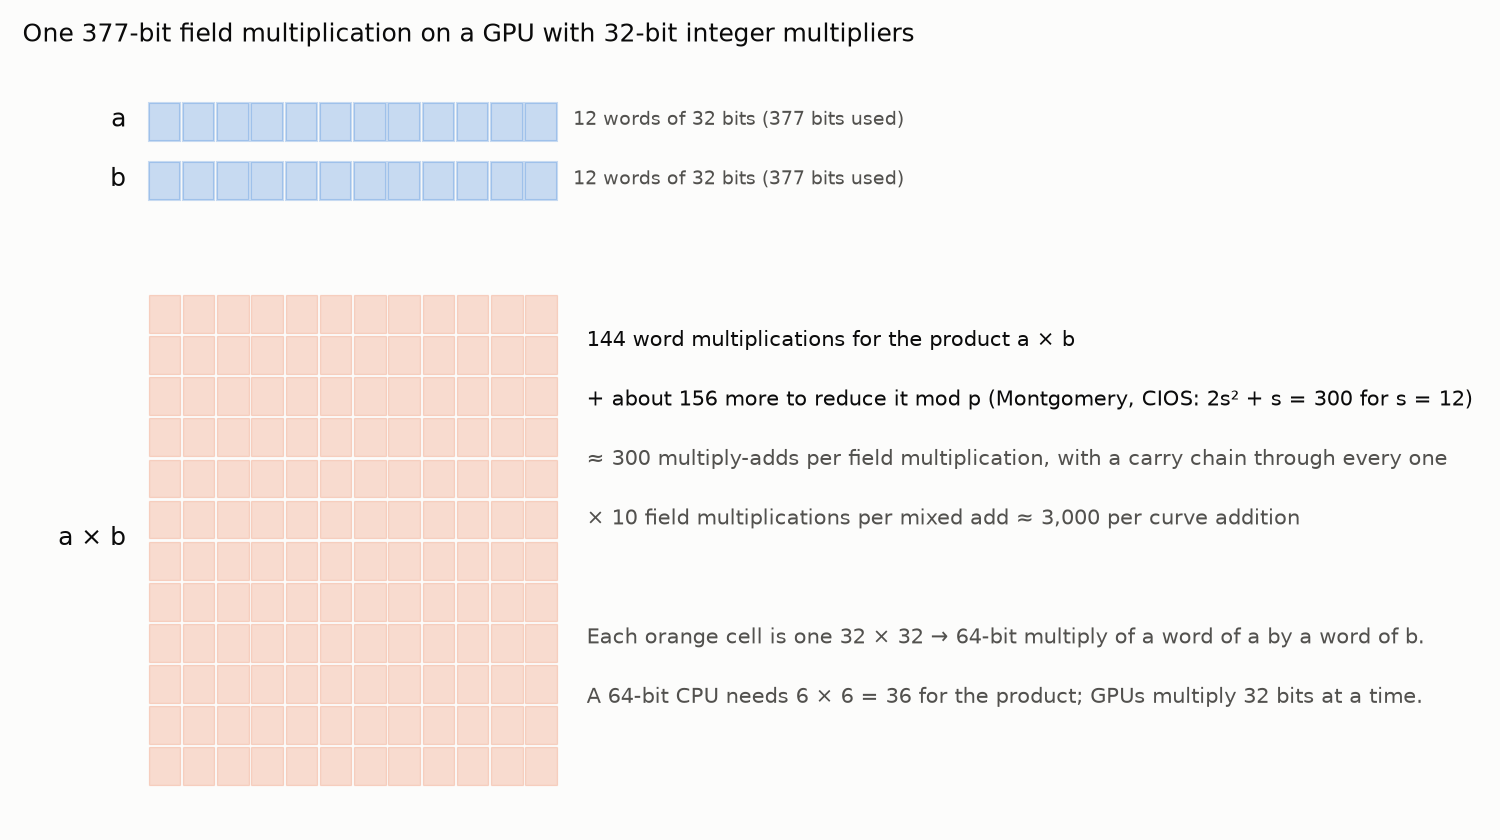
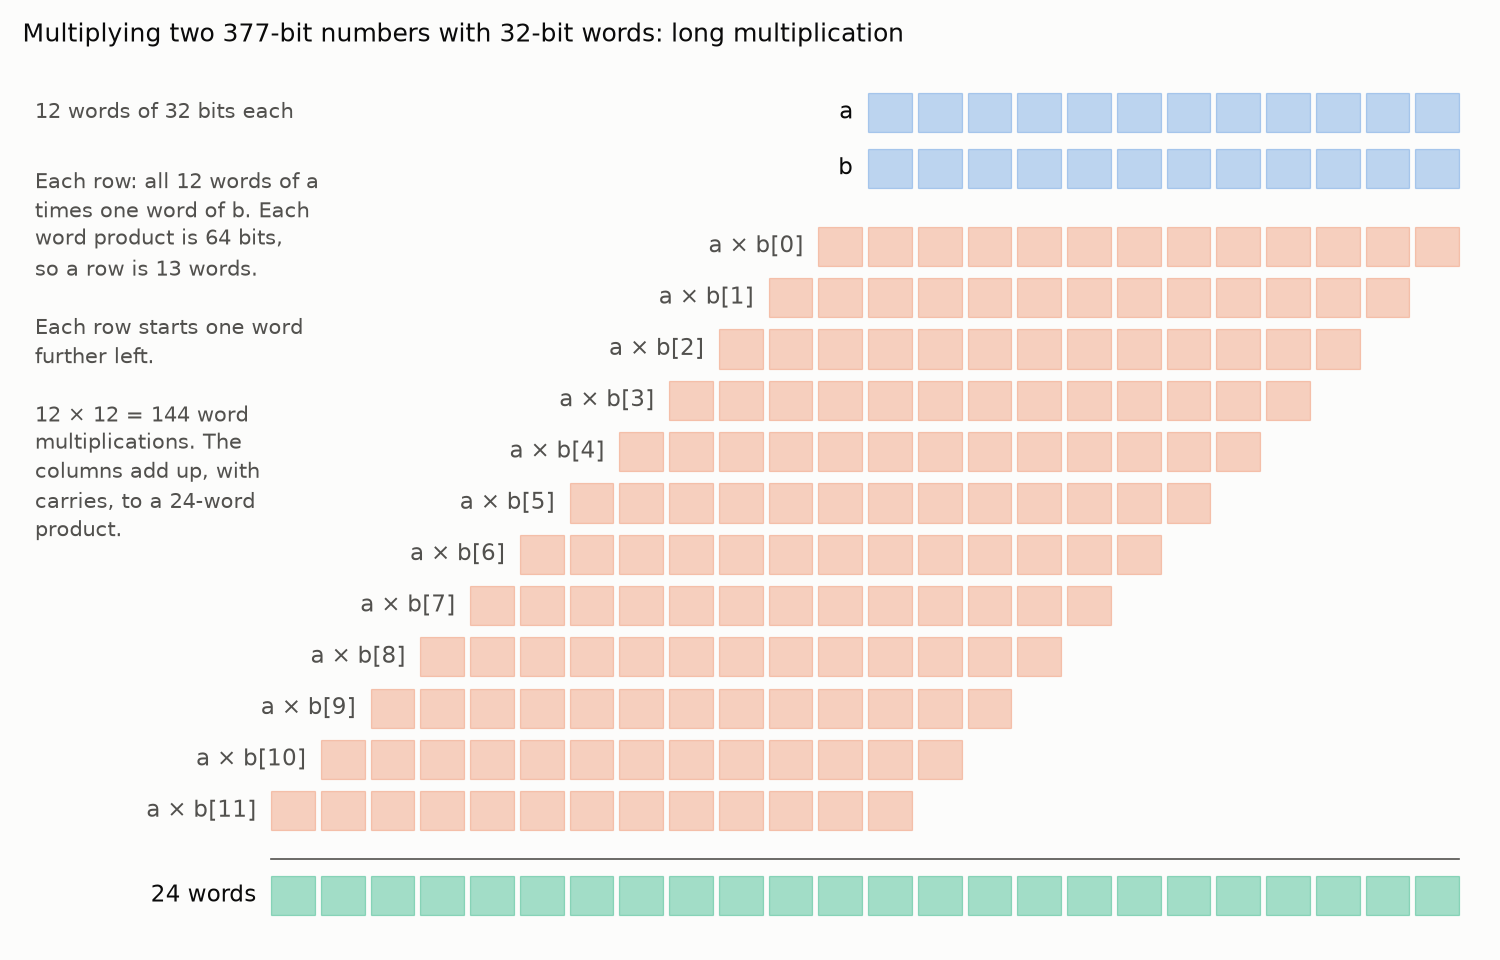
Redraw the word-multiplication widget as long multiplication
- Draw a × b as long multiplication on paper with 32-bit words: row i
  is a times word i of b, 13 words wide (each word product is 64 bits),
  starting i words further left
- Highlight all of a with the one word of b each row uses; count up to
  144 word multiplications
- End on the 24-word product, with a brace and plus sign over the rows,
  leading into reducing mod p; drop the Montgomery and mixed-add lines
  the text now explains
- Redraw docs/figures/limbs.png as the same picture

diff --git a/site/app.js b/site/app.js
@@ -281,41 +281,72 @@ function doubleAndAdd() {
 function limbs() {
   const root = document.getElementById("limbs");
   const svg = root.querySelector("[data-view]");
-  const N = 12, C = 19, X = 70;
+  // Long multiplication with 32-bit words for digits. Column 0 (word 0) is on the right. Row i is
+  // a times word i of b: 13 words, since each word product is 64 bits. It starts at word i, and
+  // the columns add up to a 24-word product.
+  const N = 12, C = 20, X0 = 140, ROW0 = 72, PROD = 346;
+  const cx = (col) => X0 + (2 * N - 1 - col) * C;
+  const sub = (n) => String(n).split("").map((d) => "₀₁₂₃₄₅₆₇₈₉"[d]).join("");
+  const cell = (col, y, fill, stroke, opacity) =>
+    el("rect", { x: cx(col), y, width: C - 3, height: C - 3, rx: 3, fill, "fill-opacity": opacity,
+                 stroke }, svg);
   function render(s) {
     clear(svg);
-    for (const [name, y] of [["a", 10], ["b", 36]]) {
-      txt(svg, X - 14, y + 15, name, { "text-anchor": "end", "font-size": 15 });
+    const rowsDone = Math.min(s, N), done = s > N;
+    for (const [name, y] of [["a", 10], ["b", 34]]) {
+      txt(svg, cx(N - 1) - 10, y + 14, name, { "text-anchor": "end", "font-size": 15 });
       for (let i = 0; i < N; i++) {
-        el("rect", { x: X + i * C, y, width: C - 3, height: C - 3, rx: 3, fill: "var(--sagittal)",
-                     "fill-opacity": 0.3, stroke: "var(--sagittal)" }, svg);
+        const lit = s > 0 && !done && (name === "a" || i === s - 1);
+        cell(i, y, "var(--sagittal)", "var(--sagittal)", lit ? 0.9 : 0.3);
       }
     }
-    txt(svg, X + N * C + 12, 23, "12 words of 32 bits each", { fill: "var(--text-2)" });
-    txt(svg, X - 14, 80 + (N * C) / 2, "a × b", { "text-anchor": "end", "font-size": 15 });
-    const rowsDone = Math.min(s, N);
+    txt(svg, 12, 24, "12 words of 32 bits each", { fill: "var(--text-2)" });
+    txt(svg, 12, 48, `${rowsDone * N} of 144 word multiplications`);
     for (let i = 0; i < N; i++) {
-      for (let j = 0; j < N; j++) {
-        const done = i < rowsDone;
-        el("rect", { x: X + j * C, y: 72 + i * C, width: C - 3, height: C - 3, rx: 3,
-                     fill: done ? "var(--pippenger)" : "none", "fill-opacity": 0.35,
-                     stroke: done ? "var(--pippenger)" : "var(--track)" }, svg);
+      const y = ROW0 + i * 22, current = i === s - 1, filled = i < rowsDone;
+      if (filled) {
+        txt(svg, cx(i + N) - 8, y + 13, `a × b${sub(i)}`,
+            { "text-anchor": "end", "font-size": 12, fill: "var(--text-2)" });
+      }
+      for (let j = 0; j <= N; j++) {
+        cell(i + j, y, filled ? "var(--pippenger)" : "none",
+             filled ? "var(--pippenger)" : "var(--track)", current ? 0.8 : 0.3);
       }
     }
-    const lines = [
-      [`${rowsDone * N} of 144 word multiplications`, "var(--text)"],
-      [s > N ? "+ about 156 to reduce the result mod p" : "", "var(--text)"],
-      [s > N ? "≈ 300 multiply-adds per field multiplication" : "", "var(--text-2)"],
-      [s > N + 1 ? "× 10 per mixed add ≈ 3,000 per curve addition" : "", "var(--text-2)"],
-    ];
-    lines.forEach(([t, fill], i) => txt(svg, X + N * C + 24, 110 + i * 30, t, { fill, "font-size": 14 }));
-    const a = `<b style="color:var(--sagittal)">a</b>`, b = `<b style="color:var(--sagittal)">b</b>`;
-    if (s === 0) return `Each orange cell will be one 32 × 32 → 64-bit multiplication of a word of ${a} by a word of ${b}.`;
-    if (s <= N) return `Row ${s}: word ${s} of ${a} times all 12 words of ${b}, with carries passed along.`;
-    if (s === N + 1) return "Then the 24-word product is reduced mod p (Montgomery): about 300 multiply-adds in all.";
-    return "A mixed curve addition needs 10 field multiplications: about 3,000 word multiply-adds.";
+    el("line", { x1: cx(2 * N - 1), x2: cx(0) + C - 3, y1: PROD - 8, y2: PROD - 8,
+                 stroke: "var(--text-2)" }, svg);
+    if (done) {
+      // A brace over all 12 rows with a plus sign: the rows are summed, as on paper.
+      const top = ROW0, bot = ROW0 + N * 22 - 5, bx = 52, mid = (top + bot) / 2;
+      el("path", { d: `M ${bx + 8} ${top} q -8 0 -8 8 V ${mid - 8} q 0 8 -8 8 q 8 0 8 8 ` +
+                      `V ${bot - 8} q 0 8 8 8`, fill: "none", stroke: "var(--result)",
+                   "stroke-width": 2 }, svg);
+      txt(svg, bx - 14, mid + 7, "+", { "text-anchor": "end", "font-size": 22,
+                                        "font-weight": 600, fill: "var(--result)" });
+    }
+    for (let col = 0; col < 2 * N; col++) {
+      cell(col, PROD, done ? "var(--result)" : "none", done ? "var(--result)" : "var(--track)",
+           0.45);
+    }
+    txt(svg, cx(2 * N - 1) - 10, PROD + 14, done ? "24 words" : "a × b",
+        { "text-anchor": "end", "font-size": 13, fill: done ? "var(--text)" : "var(--text-2)" });
+    const hl = (x) => `<b style="color:var(--pippenger)">${x}</b>`;
+    if (s === 0) {
+      return "Long multiplication, as on paper, with each digit now a 32-bit word. On paper, " +
+             "47 × 36 is 47 × 6, plus 47 × 3 shifted one place left: 282 + 1410 = 1692.";
+    }
+    if (!done) {
+      if (s === 1) {
+        return "Row 1: all 12 words of a times word 0 of b. Each word product is 64 bits, two " +
+               `words, so the row is 13 words long. ${hl(N)} word multiplications so far.`;
+      }
+      return `Row ${s}: a times word ${s - 1} of b, written ${s - 1} word${s === 2 ? "" : "s"} ` +
+             `further left. ${hl(s * N)} word multiplications so far.`;
+    }
+    return `Adding each column, with carries, gives the product: <b style="color:var(--result)">` +
+           "24 words</b>, twice the 12 a number may use. It has to be reduced mod p, below.";
   }
-  stepper(root, () => N + 3, render, { interval: 500 });
+  stepper(root, () => N + 2, render, { interval: 600 });
 }
 
 // ---------------------------------------------------------------------------------------------

diff --git a/site/index.html b/site/index.html
@@ -379,7 +379,7 @@ y₃ = −y = λ(x₁ − x₃) − y₁</pre></li>
   of 32 bits, and multiplying two of them works like long multiplication on paper, one word
   pair at a time:</p>
 <div class="card" id="limbs">
-  <svg data-view viewBox="0 0 640 330" role="img" aria-label="A 377-bit multiplication as 32-bit word products"></svg>
+  <svg data-view viewBox="0 0 640 380" role="img" aria-label="Long multiplication of two 12-word numbers into a 24-word product"></svg>
   <p class="caption" data-caption aria-live="polite"></p>
   <div class="controls" data-controls></div>
 </div>

diff --git a/scripts/make_figures.py b/scripts/make_figures.py
@@ -284,6 +284,7 @@ def ec_add(path: Path) -> None:
 
 
 def limbs(path: Path) -> None:
+    """Long multiplication of two 12-word numbers: shifted rows that add up to 24 words."""
     import matplotlib
 
     matplotlib.use("Agg")
@@ -291,92 +292,76 @@ def limbs(path: Path) -> None:
     from matplotlib.patches import Rectangle
 
     words = 12  # 377 bits in 32-bit words
-    fig, ax = plt.subplots(figsize=(10, 5.6), dpi=150, facecolor=SURFACE)
+    size = 0.4
+    left = 2.0
+
+    def x(col: int) -> float:
+        # Column 0 (word 0) is on the right, as in long multiplication on paper.
+        return left + (2 * words - 1 - col) * size
+
+    fig, ax = plt.subplots(figsize=(10, 6.4), dpi=150, facecolor=SURFACE)
     ax.set_facecolor(SURFACE)
     ax.axis("off")
-    size = 0.38
-    left, top = 1.4, 0.0
-    for name, y in (("a", top), ("b", top - 0.55)):
-        ax.text(
-            left - 0.25,
-            y + size / 2,
-            name,
-            ha="right",
-            va="center",
-            fontsize=12,
-            color=TEXT_PRIMARY,
+
+    def cell(col: int, y: float, color: str, alpha: float) -> None:
+        ax.add_patch(
+            Rectangle(
+                (x(col), y),
+                size * 0.88,
+                size * 0.88,
+                facecolor=color,
+                alpha=alpha,
+                edgecolor=color,
+                linewidth=0.6,
+            )
         )
+
+    def label(col: int, y: float, text: str, color: str = TEXT_PRIMARY) -> None:
+        ax.text(
+            x(col) - 0.12, y + size * 0.44, text, ha="right", va="center", fontsize=11, color=color
+        )
+
+    for name, y in (("a", 0.0), ("b", -0.5)):
+        label(words - 1, y, name)
         for i in range(words):
-            ax.add_patch(
-                Rectangle(
-                    (left + i * size, y),
-                    size * 0.92,
-                    size * 0.92,
-                    facecolor=SAGITTAL,
-                    alpha=0.25,
-                    edgecolor=SAGITTAL,
-                )
-            )
-        ax.text(
-            left + words * size + 0.15,
-            y + size / 2,
-            "12 words of 32 bits (377 bits used)",
-            va="center",
-            fontsize=9,
-            color=TEXT_SECONDARY,
-        )
-    grid_top = top - 1.4
+            cell(i, y, SAGITTAL, 0.3)
     ax.text(
-        left - 0.25,
-        grid_top - words * size / 2,
-        "a × b",
-        ha="right",
-        va="center",
-        fontsize=12,
-        color=TEXT_PRIMARY,
+        0.1, size * 0.44, "12 words of 32 bits each", va="center", fontsize=10, color=TEXT_SECONDARY
     )
+
+    row_top = -1.2
     for i in range(words):
-        for j in range(words):
-            ax.add_patch(
-                Rectangle(
-                    (left + j * size, grid_top - (i + 1) * size),
-                    size * 0.92,
-                    size * 0.92,
-                    facecolor=PIPPENGER,
-                    alpha=0.22,
-                    edgecolor=PIPPENGER,
-                    linewidth=0.6,
-                )
-            )
-    notes = [
-        ("144 word multiplications for the product a × b", TEXT_PRIMARY),
-        (
-            "+ about 156 more to reduce it mod p (Montgomery, CIOS: 2s² + s = 300 for s = 12)",
-            TEXT_PRIMARY,
-        ),
-        (
-            "≈ 300 multiply-adds per field multiplication, with a carry chain through every one",
-            TEXT_SECONDARY,
-        ),
-        ("× 10 field multiplications per mixed add ≈ 3,000 per curve addition", TEXT_SECONDARY),
-        ("", TEXT_SECONDARY),
-        (
-            "Each orange cell is one 32 × 32 → 64-bit multiply of a word of a by a word of b.",
-            TEXT_SECONDARY,
-        ),
-        (
-            "A 64-bit CPU needs 6 × 6 = 36 for the product; GPUs multiply 32 bits at a time.",
-            TEXT_SECONDARY,
-        ),
-    ]
-    for k, (note, color) in enumerate(notes):
-        ax.text(
-            left + words * size + 0.3, grid_top - 0.5 - k * 0.55, note, fontsize=10, color=color
-        )
-    ax.set_xlim(0, 13)
-    ax.set_ylim(grid_top - words * size - 0.3, top + 0.8)
+        y = row_top - i * (size + 0.06)
+        label(i + words, y, f"a × b[{i}]", TEXT_SECONDARY)
+        for j in range(words + 1):
+            cell(i + j, y, PIPPENGER, 0.3)
+    bottom = row_top - words * (size + 0.06)
+    ax.plot(
+        [x(2 * words - 1), x(0) + size * 0.88],
+        [bottom + 0.2, bottom + 0.2],
+        color=TEXT_SECONDARY,
+        linewidth=0.8,
+    )
+    product = bottom - 0.3
+    label(2 * words - 1, product, "24 words")
+    for col in range(2 * words):
+        cell(col, product, RESULT, 0.4)
+
+    ax.text(
+        0.1,
+        -0.3,
+        "Each row: all 12 words of a\ntimes one word of b. Each\nword product is 64 bits,\n"
+        "so a row is 13 words.\n\nEach row starts one word\nfurther left.\n\n12 × 12 = 144 word\n"
+        "multiplications. The\ncolumns add up, with\ncarries, to a 24-word\nproduct.",
+        va="top",
+        fontsize=10,
+        color=TEXT_SECONDARY,
+        linespacing=1.4,
+    )
+    ax.set_xlim(0, x(0) + size + 0.1)
+    ax.set_ylim(product - 0.2, size + 0.3)
     ax.set_title(
-        "One 377-bit field multiplication on a GPU with 32-bit integer multipliers",
+        "Multiplying two 377-bit numbers with 32-bit words: long multiplication",
         fontsize=12,
         loc="left",
         color=TEXT_PRIMARY,

diff --git a/docs/2-hardware.md b/docs/2-hardware.md
@@ -15,7 +15,7 @@ array of words, called limbs: 6 words on a CPU, **12 on a GPU**.
 Multiplying happens word by word, like long multiplication on paper. Two 12-word numbers take
 12 × 12 = 144 word multiplications, with carries passed from each partial product to the next:
 
-![A 377-bit multiplication as 32-bit word products](figures/limbs.png)
+![Long multiplication of two 12-word numbers into a 24-word product](figures/limbs.png)
 
 ## Division is the expensive part
 
